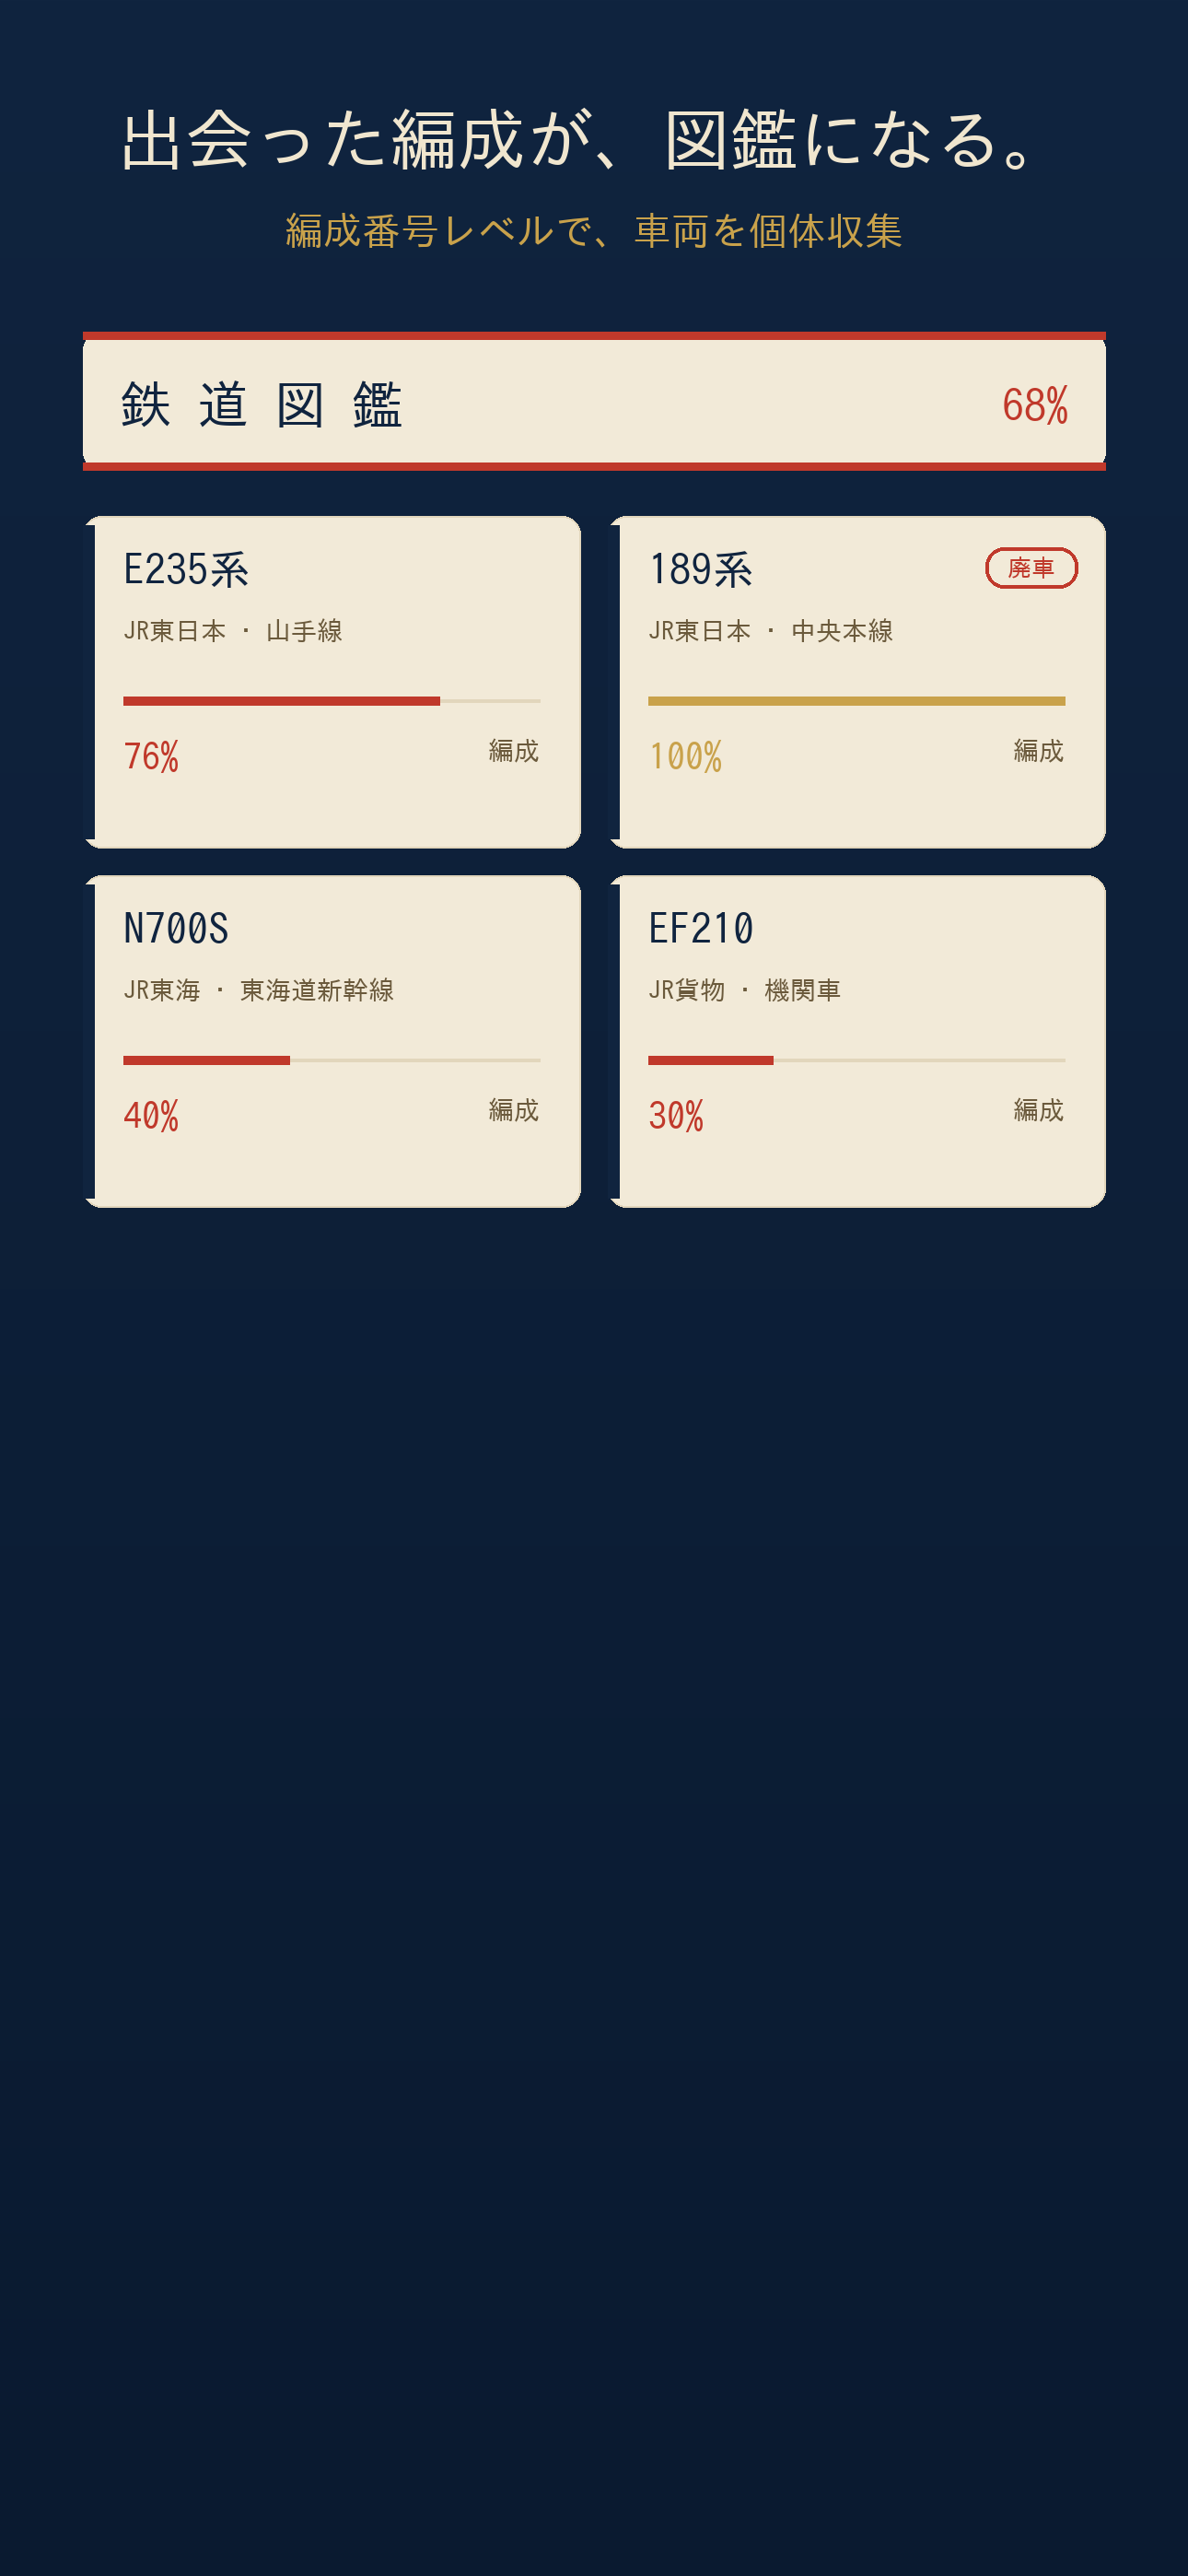
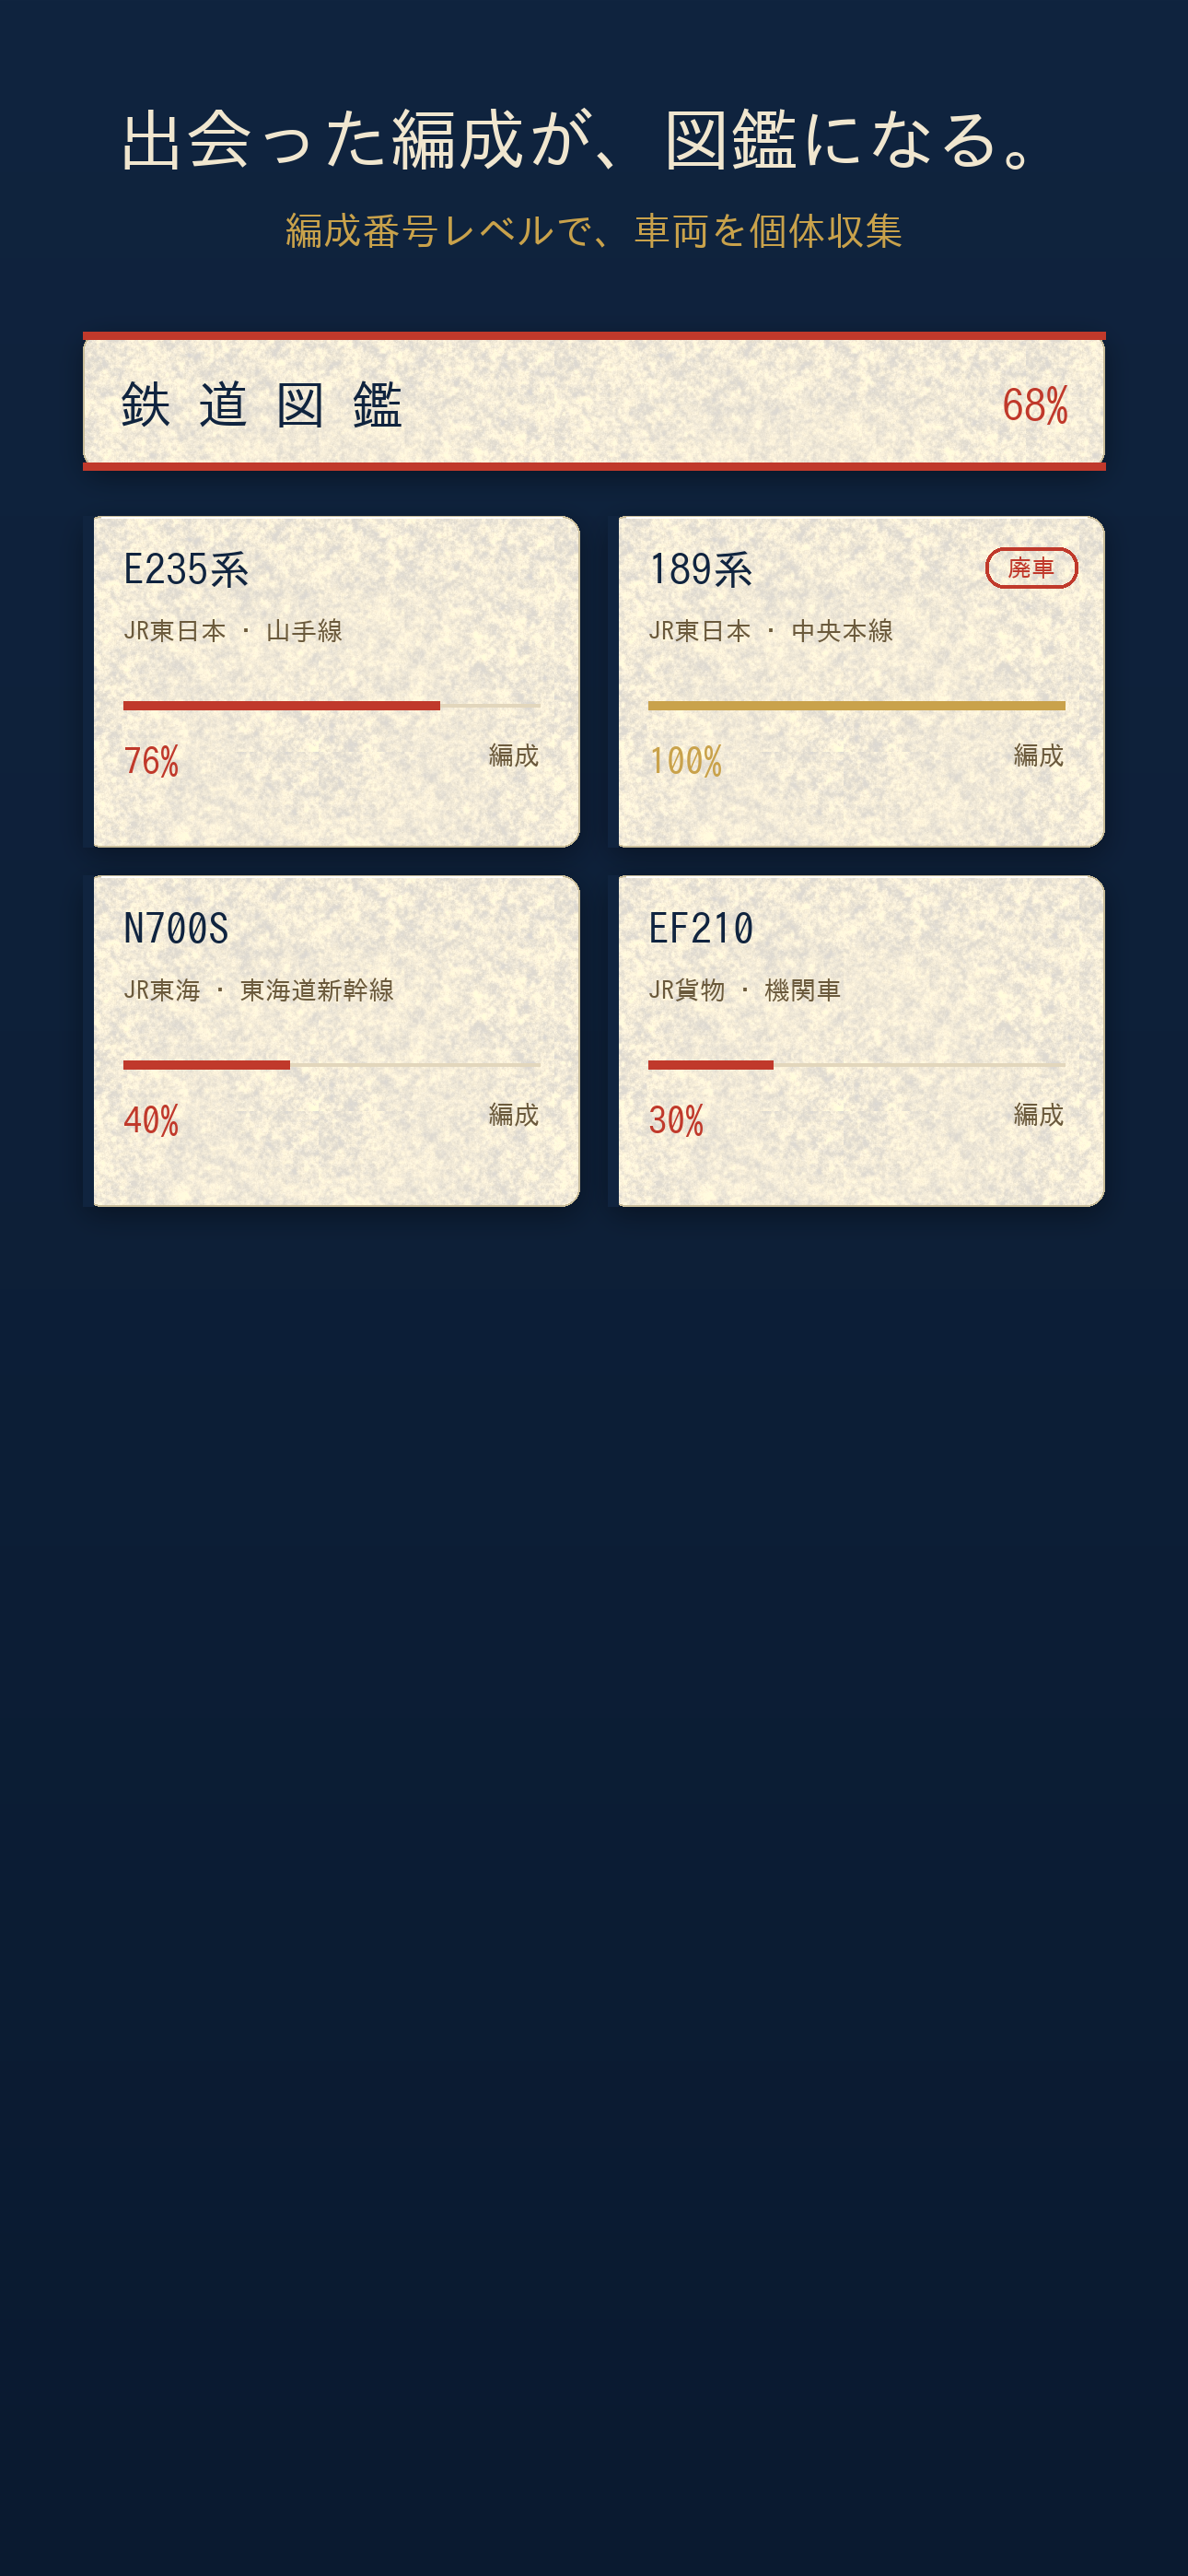
Upgrade PaperCard to real paper texture (本物クオリティ)
カードの紙質感を作り込み、フラット塗りから本物の紙片へ:
- Assets/PaperTexture: numpy生成のタイル可能な紙テクスチャ
  多重ノイズ(繊維/ザラつき/色ムラ)＋淡いセピア＋極薄のシミ、温かいクリーム
- Theme.PaperSurface: ベース色＋テクスチャ(multiply 55%)＋対角の淡い陰影
- Theme.PaperCard:
  紙テクスチャ背景、上=白ハイライト/下=濃いの厚みエッジ、
  二層の柔らかい影(近接濃+広域薄)で紙が浮く質感、continuous角丸
- MakuHeaderも紙テクスチャ＋影に統一
- App Storeスクショを実テクスチャで再生成（質感クローズアップも保存）

https://claude.ai/code/session_01VXQy7PBZuUs8FvwKgkBWxW

diff --git a/app/TetsuLog/Design/Theme.swift b/app/TetsuLog/Design/Theme.swift
@@ -47,28 +47,60 @@ extension Color {
 
 // MARK: - 共通コンポーネント
 
-/// 紙質のカード（左に紺帯のオプション付き）
+/// 紙の質感を表現する塗り（テクスチャ＋色ムラ＋紙の縁）。
+/// 単色塗りではなく、実際の紙テクスチャ画像をタイル敷きして本物の質感を出す。
+struct PaperSurface: View {
+    var body: some View {
+        ZStack {
+            Theme.Palette.paper                                   // ベース色
+            Image("PaperTexture")                                 // 繊維・色ムラ
+                .resizable(resizingMode: .tile)
+                .opacity(0.55)
+                .blendMode(.multiply)
+            // ごく淡い対角グラデで自然な陰影
+            LinearGradient(
+                colors: [Color.white.opacity(0.10), .clear, Color(hex: 0x8a, alpha: 0.05)],
+                startPoint: .topLeading, endPoint: .bottomTrailing
+            )
+        }
+    }
+}
+
+/// 紙質のカード（左に紺帯のオプション付き）。
+/// 紙テクスチャ・厚みのエッジ・二層の柔らかい影で「本物の紙片」に仕上げる。
 struct PaperCard<Content: View>: View {
     var accent: Bool = true
     @ViewBuilder var content: Content
+
+    private var shape: RoundedRectangle { RoundedRectangle(cornerRadius: Theme.cardRadius, style: .continuous) }
 
     var body: some View {
         HStack(spacing: 0) {
             if accent {
                 Rectangle()
                     .fill(Theme.Palette.navy)
+                    .overlay(Rectangle().fill(.white.opacity(0.08)))   // 帯のわずかな光沢
                     .frame(width: 8)
             }
             content
                 .padding(Theme.cardPadding)
                 .frame(maxWidth: .infinity, alignment: .leading)
         }
-        .background(Theme.Palette.paper)
-        .clipShape(RoundedRectangle(cornerRadius: Theme.cardRadius))
+        .background(PaperSurface())
+        .clipShape(shape)
+        // 紙の縁（上は明るく＝光、下は濃く＝厚み）
         .overlay(
-            RoundedRectangle(cornerRadius: Theme.cardRadius)
-                .stroke(Theme.Palette.paperEdge, lineWidth: 1)
+            shape.stroke(
+                LinearGradient(
+                    colors: [.white.opacity(0.45), Theme.Palette.paperEdge, Color(hex: 0x9a8a5a, alpha: 0.6)],
+                    startPoint: .top, endPoint: .bottom
+                ),
+                lineWidth: 1
+            )
         )
+        // 二層の影：近く濃い＋遠く広い＝紙が浮いている自然な影
+        .shadow(color: .black.opacity(0.28), radius: 3, x: 0, y: 2)
+        .shadow(color: .black.opacity(0.18), radius: 14, x: 0, y: 10)
     }
 }
 
@@ -96,8 +128,10 @@ struct MakuHeader: View {
             .padding(.vertical, 16)
             Rectangle().fill(Theme.Palette.red).frame(height: 4)
         }
-        .background(Theme.Palette.paper)
-        .clipShape(RoundedRectangle(cornerRadius: Theme.cardRadius))
+        .background(PaperSurface())
+        .clipShape(RoundedRectangle(cornerRadius: Theme.cardRadius, style: .continuous))
+        .shadow(color: .black.opacity(0.22), radius: 3, x: 0, y: 2)
+        .shadow(color: .black.opacity(0.14), radius: 12, x: 0, y: 8)
     }
 }
 